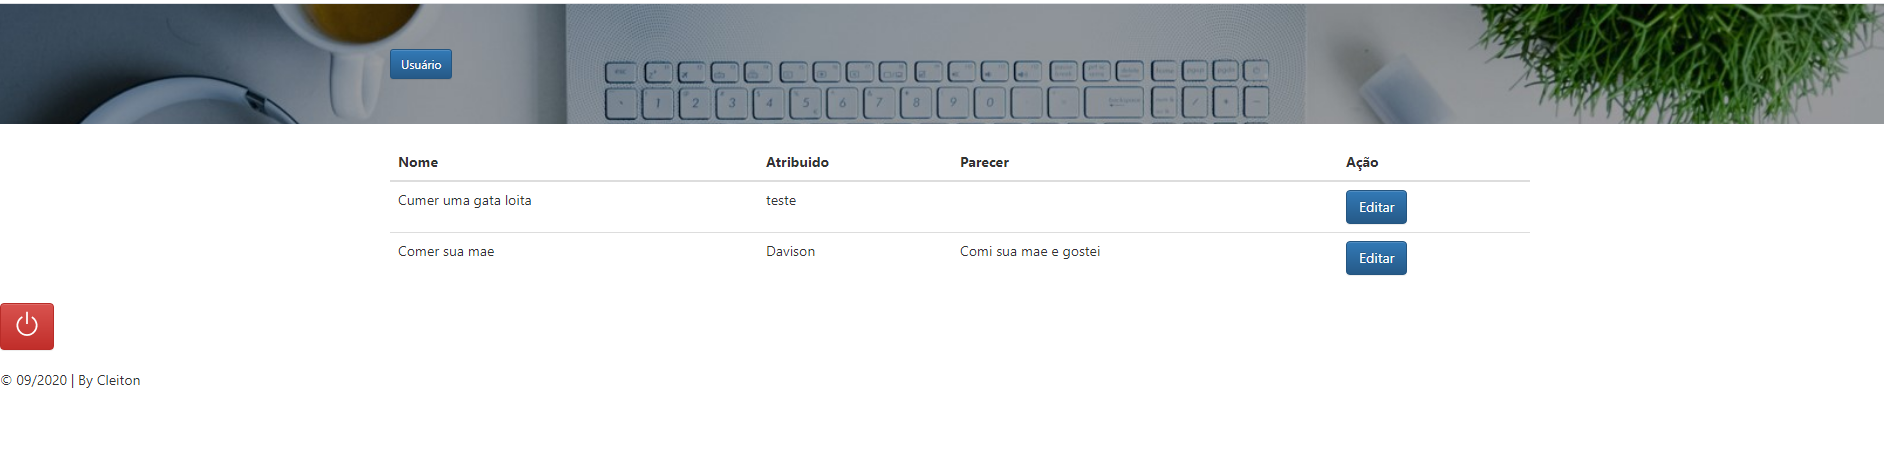
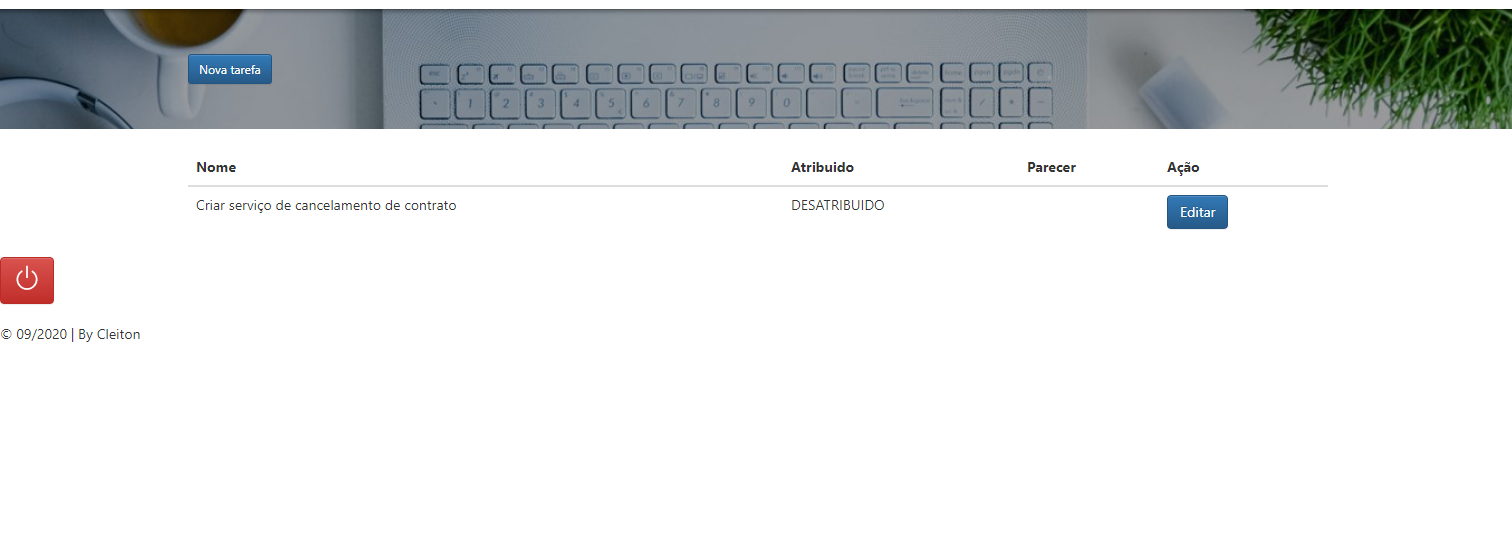
correções diversas

diff --git a/administrador/administrador.html b/administrador/administrador.html
@@ -14,7 +14,7 @@
   <meta charset="UTF-8">
   <meta name="viewport" content="width=device-width, initial-scale=1.0">
   <meta http-equiv="X-UA-Compatible" content="ie=edge">
-  <title>TAREFAS</title>
+  <title>Usuários</title>
   <link rel="stylesheet" href="assets/css/style.css">
   <link rel="stylesheet" href="assets/css/font-awesome.css">
   <script src="administradorController.js"></script>
@@ -27,8 +27,7 @@
         <div class="wrapper">
           <div class="d-grid contact section-gap">
             <div class="row">
-              <button type="button" class="btn btn-primary btn-sm" ng-click="user()">Usuario</button>
-              
+              <button type="button" class="btn btn-primary btn-sm" ng-click="user()">Novo usuário</button>
             </div>
           </div>
         </div>
@@ -40,18 +39,18 @@
         <form class="signin-form" ng-if="canCreateUser">
           <h3 class="cont-head">Cadastro de Usuário</h3>
           <div class="form-input">
-            <label for="name">Nome Completo</label>
+            <label for="name">Nome:</label>
             <input type="text" id="name" ng-model="nome" />
 
-            <label for="login">Login</label>
+            <label for="login">Login:</label>
             <input type="text" id="login" ng-model="login" required />
 
-            <label for="senha">Senha</label>
+            <label for="senha">Senha:</label>
             <input type="password" id="senha" ng-model="password" required />
-            <label for="senha2">Repita sua senha</label>
+            <label for="senha2">Repita sua senha:</label>
             <input type="password" id="senha2" ng-model="password2" required />
 
-            <label for="perfil">Perfil</label>
+            <label for="perfil">Perfil:</label>
             <select ng-model="perfil" id="perfil" value="perfil" class="form-control form-control-sm" required>
               <option ng-model="perfil">{{perfils[0]}}</option>
               <option ng-model="perfil">{{perfils[1]}}</option>

diff --git a/triador/triador.html b/triador/triador.html
@@ -27,7 +27,7 @@
         <div class="wrapper">
           <div class="d-grid contact section-gap">
             <div class="row">
-              <button type="button" class="btn btn-primary btn-sm" ng-click="toGoAssignment()">Usuário</button>
+              <button type="button" class="btn btn-primary btn-sm" ng-click="toGoAssignment()">Nova tarefa</button>
             </div>
           </div>
         </div>
@@ -41,17 +41,18 @@
           <h3 class="cont-head">Cadastro de Tarefas</h3>
 
           <div class="form-input">
-            <label for="description">Descrição</label>
+            <label for="description">Descrição:</label>
             <input type="text" id="description" ng-model="description" value={{description}} />
 
-            <label for="assigned">Perfil</label>
-            <select ng-model="assigned" ng-repeat="user in users" id="assigned" class="form-control form-control-sm"
-              required>
-              <option ng-model="assigned">{{user.LOGIN}}</option>
+            <label for="assigned">Atribuido a:</label>
+
+            
+            <select ng-model="assigned" id="assigned" class="form-control form-control-sm">
+              <option ng-repeat="user in users" ng-model="assigned">{{user.LOGIN}}</option>
             </select>
 
 
-            <label for="opinion">Parecer</label>
+            <label for="opinion">Parecer:</label>
             <textarea type="text" id="opinion" ng-model="opinion" value={{opinion}}></textarea>
           </div>
 

diff --git a/finalizador/finalizador.html b/finalizador/finalizador.html
@@ -35,9 +35,9 @@
             <h3 class="cont-head">Cadastro de Tarefas</h3>
 
             <div class="form-input">
-              <label for="description">Descrição</label>
+              <label for="description">Descrição:</label>
               <input type="text" id="description" ng-model="description" value={{description}} ng-disabled="true" />
-              <label for="assigned">Atribuido:</label>
+              <label for="assigned">Atribuido a:</label>
               <input type="text" id="assigned" ng-model="assigned" value={{assigned}} ng-disabled="true" />
               <label for="opinion">Parecer</label>
               <textarea type="text" id="opinion" ng-model="opinion" value={{opinion}}></textarea>
